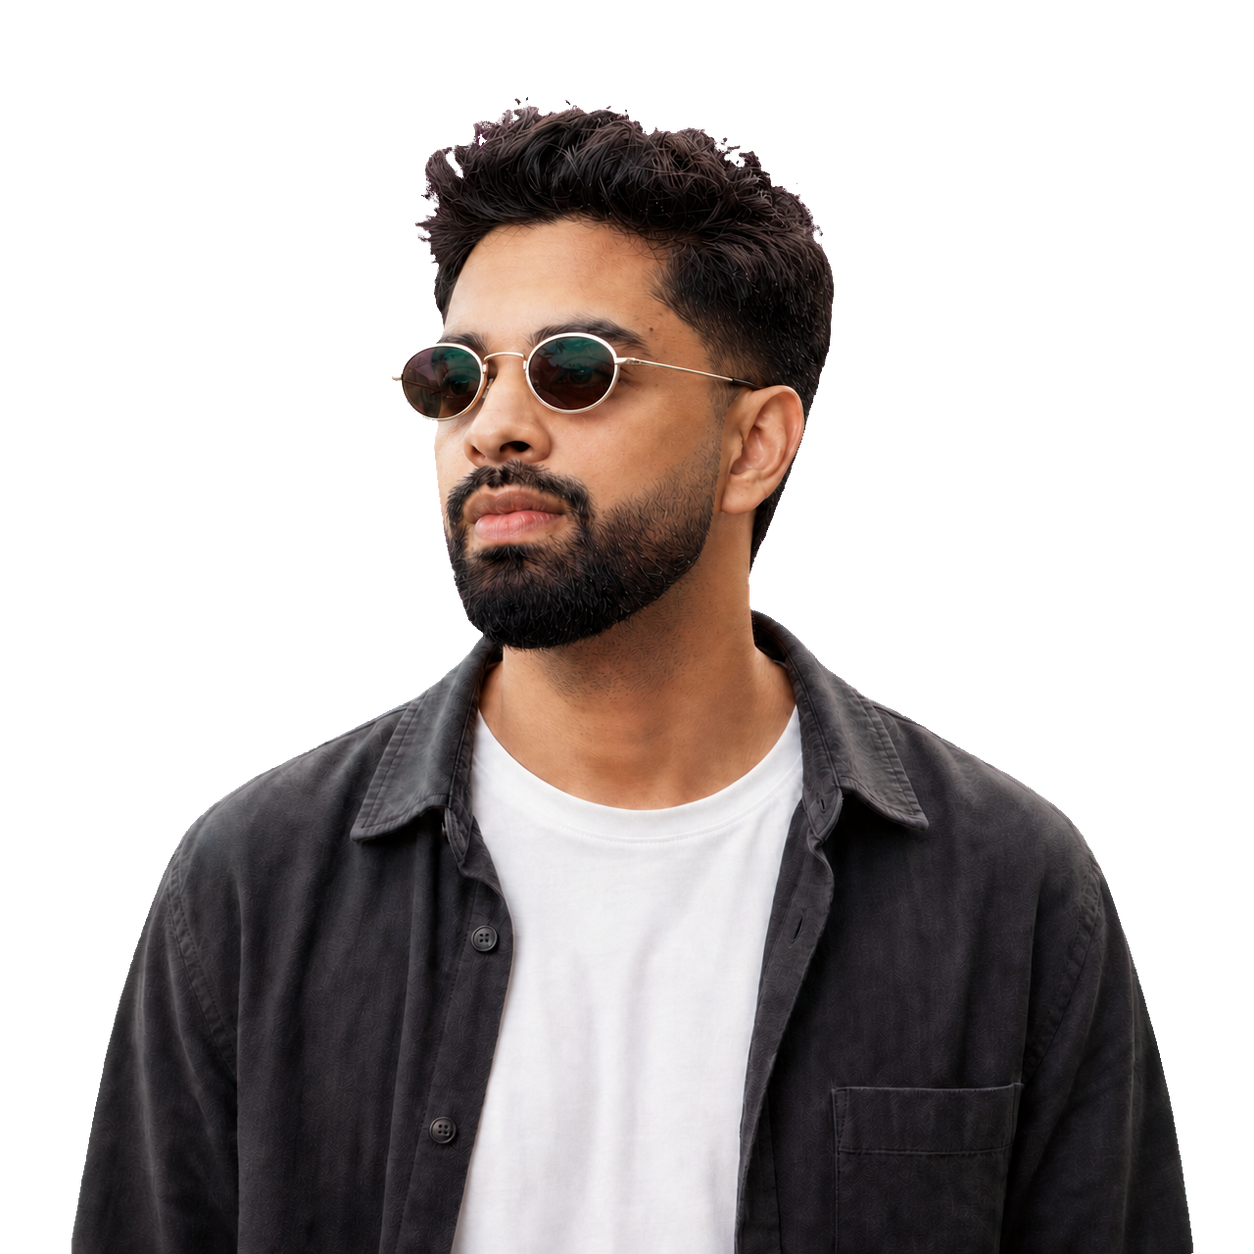
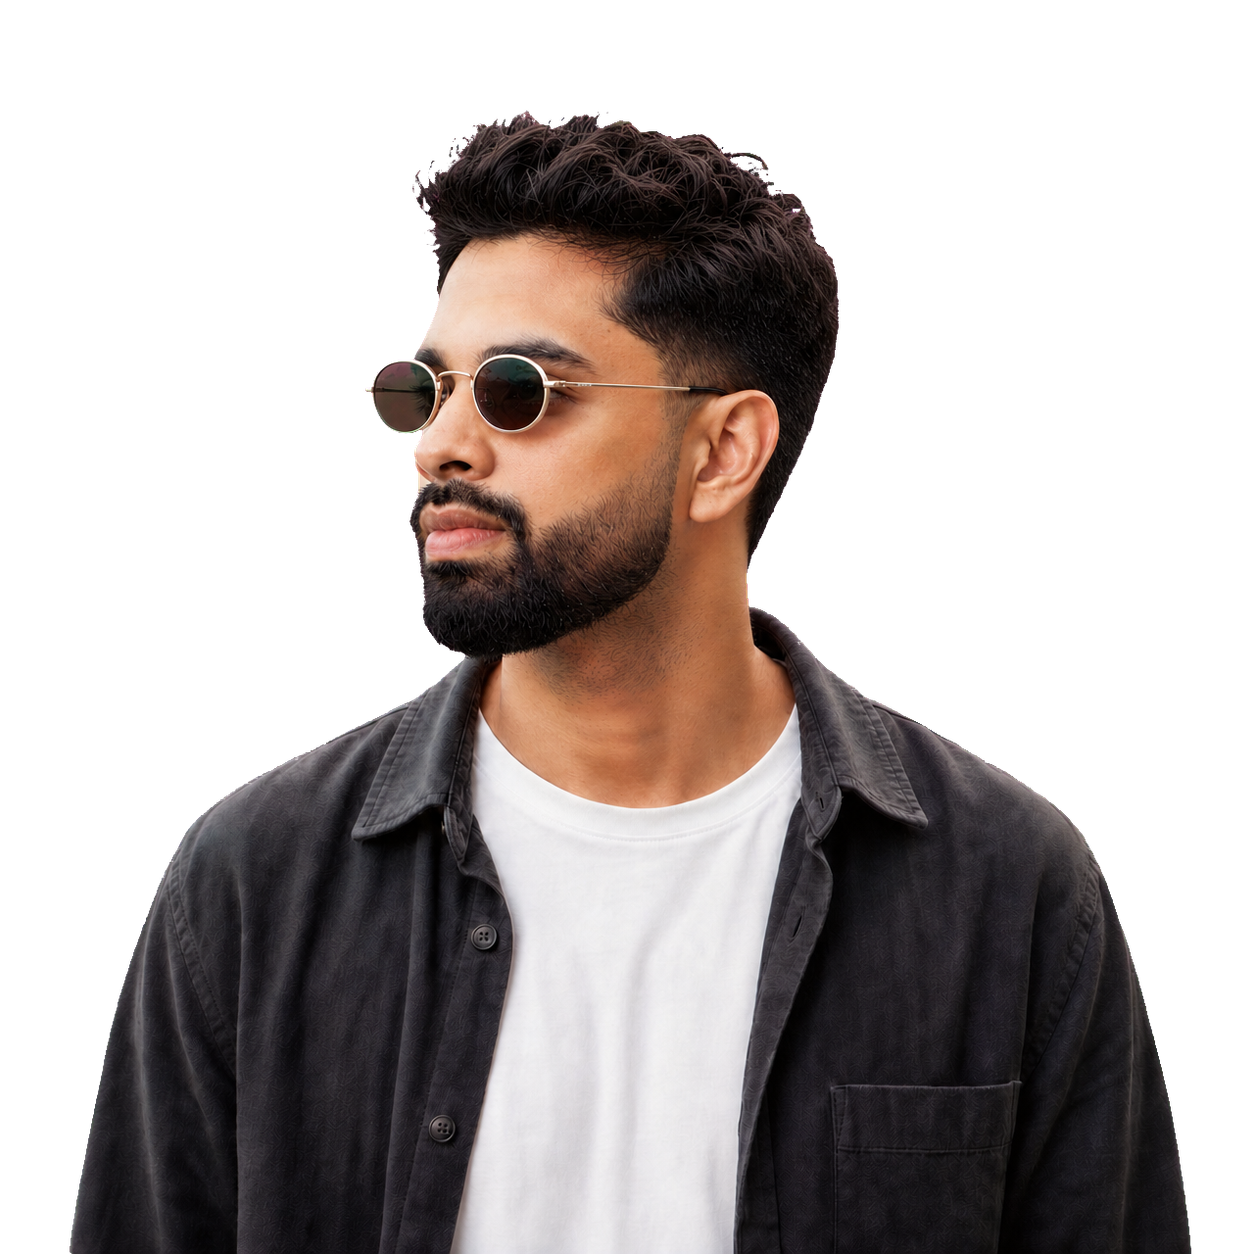
fix(face-motion): correct side pose and hair volume

diff --git a/public/resume/face-motion/v13/PROMPTS.md b/public/resume/face-motion/v13/PROMPTS.md
@@ -1,31 +1,35 @@
 # V13 side-generation prompts
 
-Both selected endpoints were generated through the Image API with `gpt-image-2`, high quality, a `1280×1280` canvas, and PNG output. Input order is significant and is documented below.
+Both selected endpoints were generated through the Image API with `gpt-image-2`, high quality, a `1280×1280` canvas, and PNG output. Input order is significant and is documented below. The diagonal inputs were fixed references and were not edited.
 
 ## Left
 
 ```text
 Use case: identity-preserve
-Asset type: a single endpoint frame for a smooth interactive website portrait
-Primary request: Re-render Image 1 cleanly while preserving its exact horizontal left-facing head pose and gaze. This is the left endpoint, not the top-left endpoint: the chin, nose, eyeglass bridge, and gaze must stay level with no upward or downward tilt.
-Input images: Image 1 is the clean prior left source and is authoritative for every spatial property: head angle, gaze angle, face position, subject scale, shoulder placement, crop, expression, glasses, beard, clothing, and lighting. Reproduce those coordinates and proportions as closely as possible. Image 2 is the accepted top-left endpoint and is a reference only for the same person's tall dense swept curly crown, hairline, tapered side hair, fine hair texture, and other identity details. Do not copy Image 2's upward head angle, upward gaze, pose, scale, or placement. Image 3 is the accepted center endpoint and is a supporting identity and wardrobe reference only.
-Scene/backdrop: perfectly flat solid #FF00FF chroma-key background, edge to edge, with one uniform color and no texture or variation
-Style/medium: natural high-resolution studio portrait photography matching the references
-Composition/framing: copy Image 1's square composition, subject size, head position, shoulders, and bottom crop; keep the full hair silhouette inside the canvas
-Constraints: preserve exactly one pair of round sunglasses with crisp rims and temples; preserve the white crew-neck T-shirt and charcoal open overshirt; use Image 2 to keep crown height, density, silhouette, and texture consistent without changing Image 1's pose; complete clean silhouette
-Avoid: any upward or downward head tilt; any upward or downward gaze; zooming; recentering; pose drift; transparent or checkerboard background; streaks; rectangular blocks; bands; smears; halos; white or gray background; background shadows; duplicate or warped glasses; extra accessories; text; logos; watermark
+Asset type: corrected left endpoint frame for a smooth interactive website portrait
+Primary request: Edit Image 1 into an unmistakably horizontal screen-left pose. Lower the current upward-leading face and eye direction so the nose, eyeglass bridge, chin, and gaze point straight toward 9 o'clock. This must read as LEFT, not TOP-LEFT. At the same time, restore the full tall dense swept hair volume so the outer crown silhouette transitions smoothly from Image 2 without a low section, sudden notch, pinched side, or abrupt crease.
+Input images: Image 1 is the edit target and is authoritative for the horizontal endpoint's framing, subject scale, shoulders, crop, expression, sunglasses, beard, clothes, and lighting. Change only its head/gaze elevation and hair silhouette as requested. Image 2 is the fixed accepted top-left endpoint and is authoritative only for hair identity: match its crown height, crown width, side fullness, density, sweep, hairline, taper, and fine curl texture. Never copy Image 2's upward pose or upward gaze. Image 3 is a supporting identity and wardrobe reference only.
+Scene/backdrop: perfectly flat solid #FF00FF chroma-key background covering every background pixel edge to edge, with no texture or variation
+Style/medium: natural high-resolution studio portrait photography matching the supplied person exactly
+Composition/framing: preserve Image 1's square framing, subject size, shoulders, and bottom crop; keep the complete fuller hair silhouette inside the canvas
+Required pose: face and eyes aim horizontally screen-left at 9 o'clock; no upward or downward component; level eyeglass bridge; level chin; no raised face
+Required hair: maintain Image 2's generous crown height and width into the left pose; dense volume across the full top and both side contours; smooth continuous silhouette between the diagonal and left frames; no collapse, notch, sharp inward step, flat patch, or abrupt crease
+Constraints: exactly one person; exactly one pair of round sunglasses with crisp rims and temples; white crew-neck T-shirt; charcoal open overshirt; preserve identity, body, scale, crop, shoulders, lighting, and expression
+Avoid: top-left pose; upward-leading gaze; upward chin; low or narrow crown; compressed hair; abrupt hairline transition; missing side volume; pose drift; zooming; recentering; streaks; rectangular blocks; horizontal or vertical bands; smears; halos; white, black, gray, transparent, or checkerboard background; duplicate or warped glasses; extra accessories; text; logos; watermark
 ```
 
 ## Right
 
 ```text
 Use case: identity-preserve
-Asset type: a single endpoint frame for a smooth interactive website portrait
-Primary request: Re-render Image 1 cleanly while preserving its exact horizontal right-facing head pose and gaze. This is the right endpoint, not the top-right endpoint: the chin, nose, eyeglass bridge, and gaze must stay level with no upward or downward tilt.
-Input images: Image 1 is the clean prior right source and is authoritative for every spatial property: head angle, gaze angle, face position, subject scale, shoulder placement, crop, expression, glasses, beard, clothing, and lighting. Reproduce those coordinates and proportions as closely as possible. Image 2 is the accepted top-right endpoint and is a reference only for the same person's tall dense swept curly crown, hairline, tapered side hair, fine hair texture, and other identity details. Do not copy Image 2's upward head angle, upward gaze, pose, scale, or placement. Image 3 is the accepted center endpoint and is a supporting identity and wardrobe reference only.
-Scene/backdrop: perfectly flat solid #FF00FF chroma-key background, edge to edge, with one uniform color and no texture or variation
-Style/medium: natural high-resolution studio portrait photography matching the references
-Composition/framing: copy Image 1's square composition, subject size, head position, shoulders, and bottom crop; keep the full hair silhouette inside the canvas
-Constraints: preserve exactly one pair of round sunglasses with crisp rims and temples; preserve the white crew-neck T-shirt and charcoal open overshirt; use Image 2 to keep crown height, density, silhouette, and texture consistent without changing Image 1's pose; complete clean silhouette
-Avoid: any upward or downward head tilt; any upward or downward gaze; zooming; recentering; pose drift; transparent or checkerboard background; streaks; rectangular blocks; bands; smears; halos; white or gray background; background shadows; duplicate or warped glasses; extra accessories; text; logos; watermark
+Asset type: corrected right endpoint frame for a smooth interactive website portrait
+Primary request: Edit Image 1 into an unmistakably horizontal screen-right pose. Lower the current upward-leading face and eye direction so the nose, eyeglass bridge, chin, and gaze point straight toward 3 o'clock. This must read as RIGHT, not TOP-RIGHT. At the same time, restore the full tall dense swept hair volume so the outer crown silhouette transitions smoothly from Image 2 without a low section, sudden notch, pinched side, or abrupt crease.
+Input images: Image 1 is the edit target and is authoritative for the horizontal endpoint's framing, subject scale, shoulders, crop, expression, sunglasses, beard, clothes, and lighting. Change only its head/gaze elevation and hair silhouette as requested. Image 2 is the fixed accepted top-right endpoint and is authoritative only for hair identity: match its crown height, crown width, side fullness, density, sweep, hairline, taper, and fine curl texture. Never copy Image 2's upward pose or upward gaze. Image 3 is a supporting identity and wardrobe reference only.
+Scene/backdrop: perfectly flat solid #FF00FF chroma-key background covering every background pixel edge to edge, with no texture or variation
+Style/medium: natural high-resolution studio portrait photography matching the supplied person exactly
+Composition/framing: preserve Image 1's square framing, subject size, shoulders, and bottom crop; keep the complete fuller hair silhouette inside the canvas
+Required pose: face and eyes aim horizontally screen-right at 3 o'clock; no upward or downward component; level eyeglass bridge; level chin; no raised face
+Required hair: maintain Image 2's generous crown height and width into the right pose; dense volume across the full top and both side contours; smooth continuous silhouette between the diagonal and right frames; no collapse, notch, sharp inward step, flat patch, or abrupt crease
+Constraints: exactly one person; exactly one pair of round sunglasses with crisp rims and temples; white crew-neck T-shirt; charcoal open overshirt; preserve identity, body, scale, crop, shoulders, lighting, and expression
+Avoid: top-right pose; upward-leading gaze; upward chin; low or narrow crown; compressed hair; abrupt hairline transition; missing side volume; pose drift; zooming; recentering; streaks; rectangular blocks; horizontal or vertical bands; smears; halos; white, black, gray, transparent, or checkerboard background; duplicate or warped glasses; extra accessories; text; logos; watermark
 ```

diff --git a/public/resume/face-motion/v13/VALIDATION.md b/public/resume/face-motion/v13/VALIDATION.md
@@ -12,13 +12,13 @@ PASS: nine `1254×1254` lossless WebP endpoints were built from accepted GPT Ima
 | top-left | `[69, 98, 1191, 1254]` | 738,596 | 6,480 | 719,420 |
 | top | `[71, 111, 1194, 1254]` | 709,697 | 6,820 | 729,410 |
 | top-right | `[72, 92, 1192, 1254]` | 739,480 | 6,687 | 729,288 |
-| left | `[69, 96, 1196, 1254]` | 730,313 | 11,340 | 813,816 |
+| left | `[67, 109, 1194, 1254]` | 738,197 | 11,265 | 856,716 |
 | center | `[69, 99, 1196, 1254]` | 724,528 | 5,973 | 760,630 |
-| right | `[68, 98, 1194, 1254]` | 724,103 | 10,353 | 809,628 |
+| right | `[69, 76, 1191, 1254]` | 753,040 | 12,515 | 918,682 |
 | bottom-left | `[74, 128, 1199, 1254]` | 732,368 | 6,483 | 725,340 |
 | bottom | `[69, 115, 1196, 1254]` | 724,959 | 5,686 | 719,452 |
 | bottom-right | `[59, 145, 1182, 1254]` | 706,047 | 6,352 | 715,492 |
 
-Visual inspection confirmed crisp lenses and metal rims without doubled or vertically smeared eyewear, diagonal-reference hair continuity, visible authored up/down movement, and the generated white crew-neck plus charcoal open overshirt in all nine endpoints. The rebuilt `right` to `bottom-right` transition remains a visible lossless `1254×1254` frame with alpha bounds `[79, 117, 1188, 1254]`.
+Visual inspection confirmed crisp lenses and metal rims without doubled or vertically smeared eyewear, clearly horizontal 9 and 3 o'clock side poses, full crown continuity from each untouched diagonal reference, visible authored up/down movement, and the generated white crew-neck plus charcoal open overshirt in all nine endpoints. The rebuilt `right` to `bottom-right` transition remains a visible lossless `1254×1254` frame with alpha bounds `[79, 117, 1188, 1254]`.
 
 Run `bun run verify:face-motion` to recreate the machine-readable QA report and contact sheet in `build/face-motion-qa/`.

diff --git a/public/resume/face-motion/v13/README.md b/public/resume/face-motion/v13/README.md
@@ -6,7 +6,7 @@ Only border-connected magenta background removal and uniform canvas normalizatio
 
 The live graph currently has nine independently generated GPT Image 2 transition frames: three for top, two for left, one each for bottom, top-left, and top-right, and one for the right-to-bottom-right ring edge. Each was accepted only after visual and pose QA; failed or off-axis generations remain outside the runtime. The runtime reverses the same approved frame when travelling back across an edge, so motion stays symmetric.
 
-The extreme left and right endpoints were regenerated with GPT Image 2 from their clean V12 side sources. `top-left.webp` and `top-right.webp` were supplied as the authoritative hair and identity references, while the clean side sources remained authoritative for pose, scale, crop, shoulders, and gaze. This keeps the tall swept crown consistent without copying the diagonal endpoints' upward head angle.
+The extreme left and right endpoints were corrected with GPT Image 2 to point horizontally at 9 and 3 o'clock. `top-left.webp` and `top-right.webp` stayed byte-for-byte fixed and were supplied only as hair references for crown height, width, side fullness, texture, and identity. This keeps the tall swept crown continuous while leaving the diagonal endpoints and their upward head angles untouched.
 
 The `right` to `bottom-right` midpoint was rebuilt from its clean magenta GPT Image 2 source so the runtime no longer uses the previously exported frame that could reveal the portrait-stage background for one tick.
 
